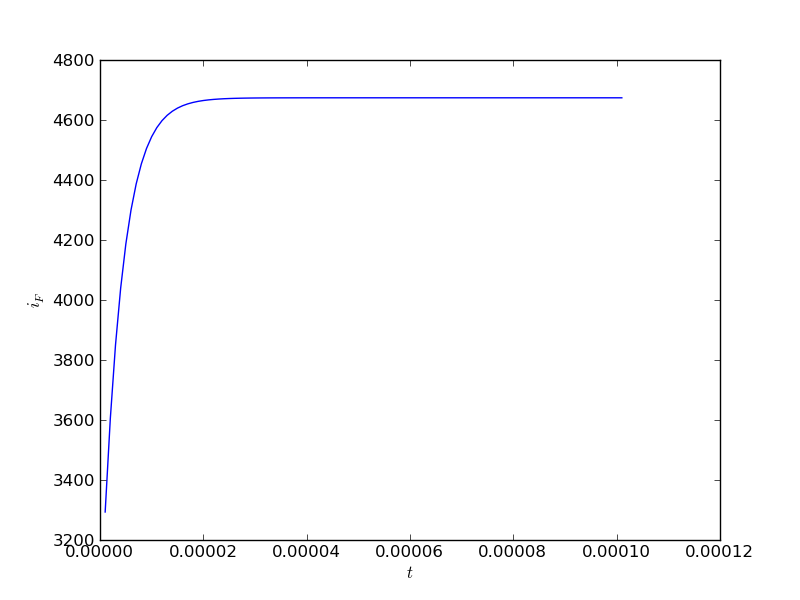
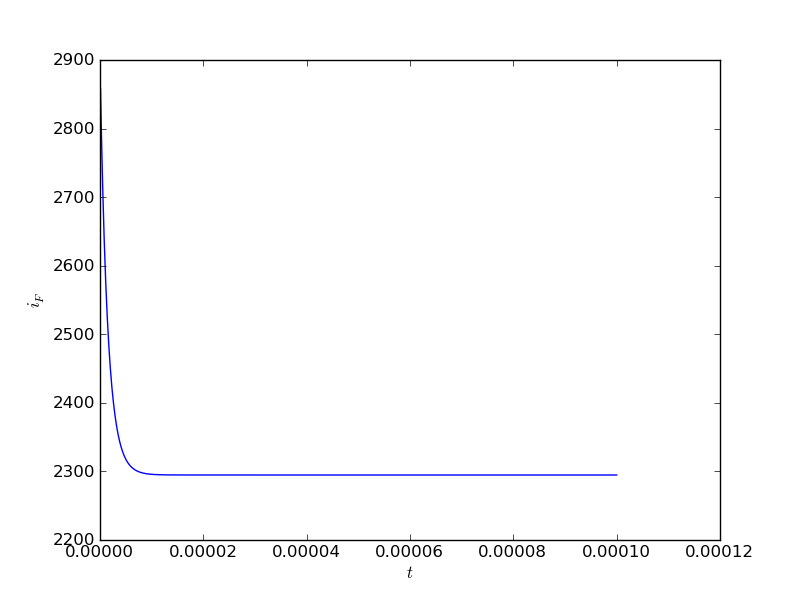
Changed some signs at the behest of Tom.
git-svn-id: svn+ssh://code.matforge.org/wd15/trunk/moffat/electrical@1475 01ab6b12-1d45-0410-8926-c5867bd4e26f

diff --git a/1D.py b/1D.py
@@ -25,11 +25,11 @@ def iF(V_IR):
 
 def RHS(t, y):
     V_IR = y[0]
-    return ((iF(V_IR) - kappa * V_IR / delta) / C_DL,)
+    return (-(iF(V_IR) + kappa * V_IR / delta) / C_DL,)
 
 def jacobian(t, y):
     V_IR = y[0]
-    return ((alphabar * iF(V_IR) - kappa / delta) / C_DL,)
+    return (-(alphabar * iF(V_IR) + kappa / delta) / C_DL,)
 
 
 from scipy.integrate import ode
@@ -39,7 +39,7 @@ integrator.set_initial_value(0., 0.)
 
 times = []
 V_IRs = []
-dt = 1e-6
+dt = 1e-7
 while integrator.successful() and integrator.t < 100.0e-6:
     integrator.integrate(integrator.t + dt)
     print integrator.t, integrator.y
